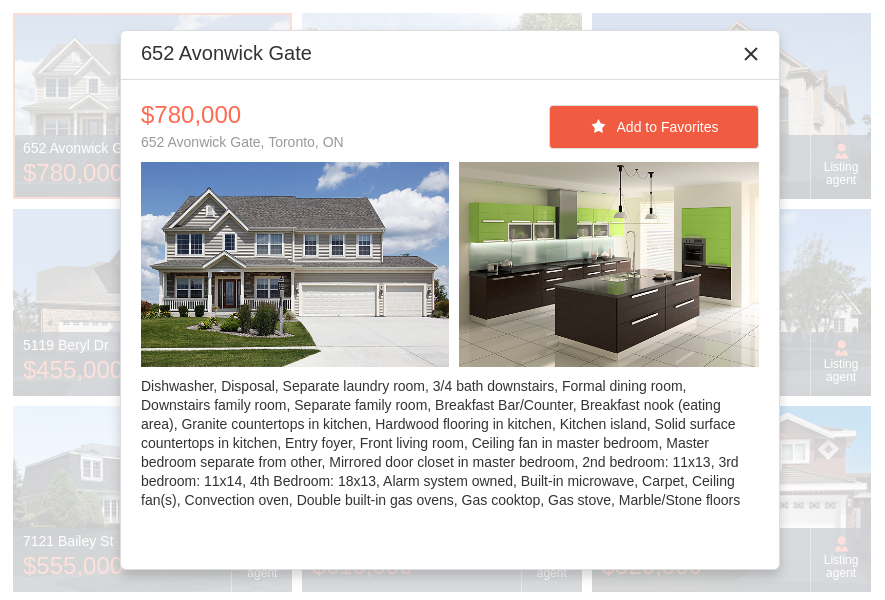
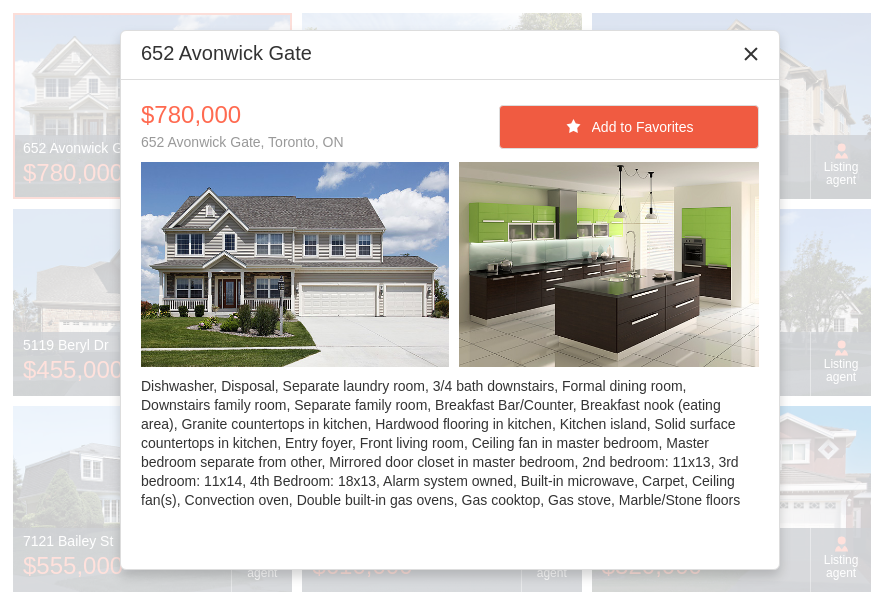
fix(@Demo && @Tests): Fix button width && Replace etalon

Changed region(s): [[0.5492, 0.15, 0.8237, 0.27]]

diff --git a/JSDemos/Demos/Common/DialogsAndNotificationsOverview/React/App.js b/JSDemos/Demos/Common/DialogsAndNotificationsOverview/React/App.js
@@ -69,7 +69,7 @@ class App extends React.Component {
         <Button
           icon="favorites"
           text={currentHouse.Favorite ? REMOVE_FROM_FAVORITES : ADD_TO_FAVORITES}
-          width={210}
+          width={260}
           height={44}
           elementAttr={favButtonAttrs}
           onClick={this.changeFavoriteState}

diff --git a/JSDemos/Demos/Common/DialogsAndNotificationsOverview/Vue/App.vue b/JSDemos/Demos/Common/DialogsAndNotificationsOverview/Vue/App.vue
@@ -61,7 +61,7 @@
           </div>
           <DxButton
             :text="favoriteText"
-            :width="210"
+            :width="260"
             :height="44"
             class="favorites"
             icon="favorites"
